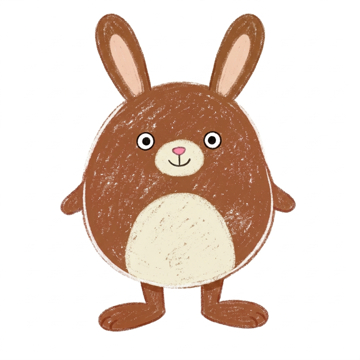
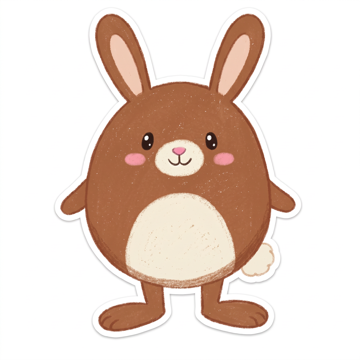
Feedbacksidan, Assets: björnen Bulle dold, kaninen och katten visar sina v2-bilder i stället för v1

diff --git a/verktyg/feedback-assets.py b/verktyg/feedback-assets.py
@@ -9,7 +9,9 @@ OUT = ROOT / "feedback" / "assets"
 IMG = {".png", ".jpg", ".jpeg", ".webp"}
 # platser Sanna rensat bort från fliken (2026-11-20); filerna ligger kvar
 DOLD = {"vinterkullen-natt-v3", "vinterkullen-v2", "vinterkullen-v3", "julskogen-v2", "dammen", "busshallplatsen",
-        "bondgarden-natt", "badplatsen"}
+        "bondgarden-natt", "badplatsen", "bjornen-bulle"}
+# huvudbild när mappens egen är en gammal version (Kanel: v1 överst, v2 i premium/)
+HUVUD = {"kaninen-kanel": "premium/original/kanel-platt.png", "katten-kaj": "premium/original/kaj-djup.jpg"}
 SKIP = ("faceless", "back", "side", "body", "kontakt", "jamfor", "rigg", "test", "mask", "armar", "stills", "klapp", "fore")
 
 
@@ -27,7 +29,7 @@ items = []
 for typ in ("karaktarer", "rekvisita", "bakgrunder"):
     (OUT / typ).mkdir(parents=True, exist_ok=True)
     for d in sorted(p for p in (ROOT / "assets" / typ).iterdir() if p.is_dir() and " " not in p.name and p.name not in DOLD):
-        src = main_image(d)
+        src = d / HUVUD[d.name] if d.name in HUVUD else main_image(d)
         if not src:
             continue
         fmt = "jpeg" if typ == "bakgrunder" else "png"   # figurer och saker behöver genomskinlighet
